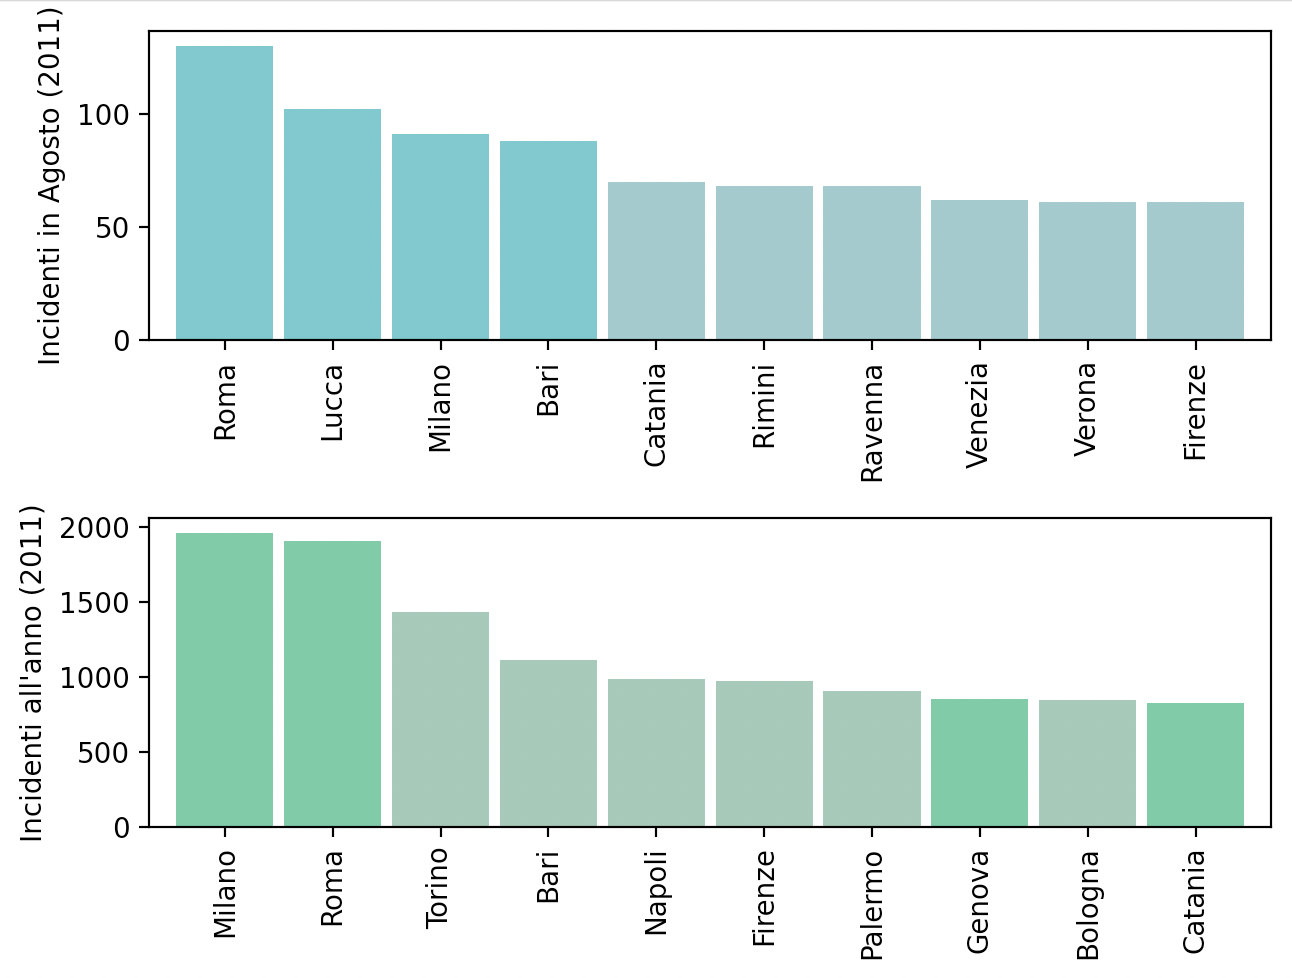
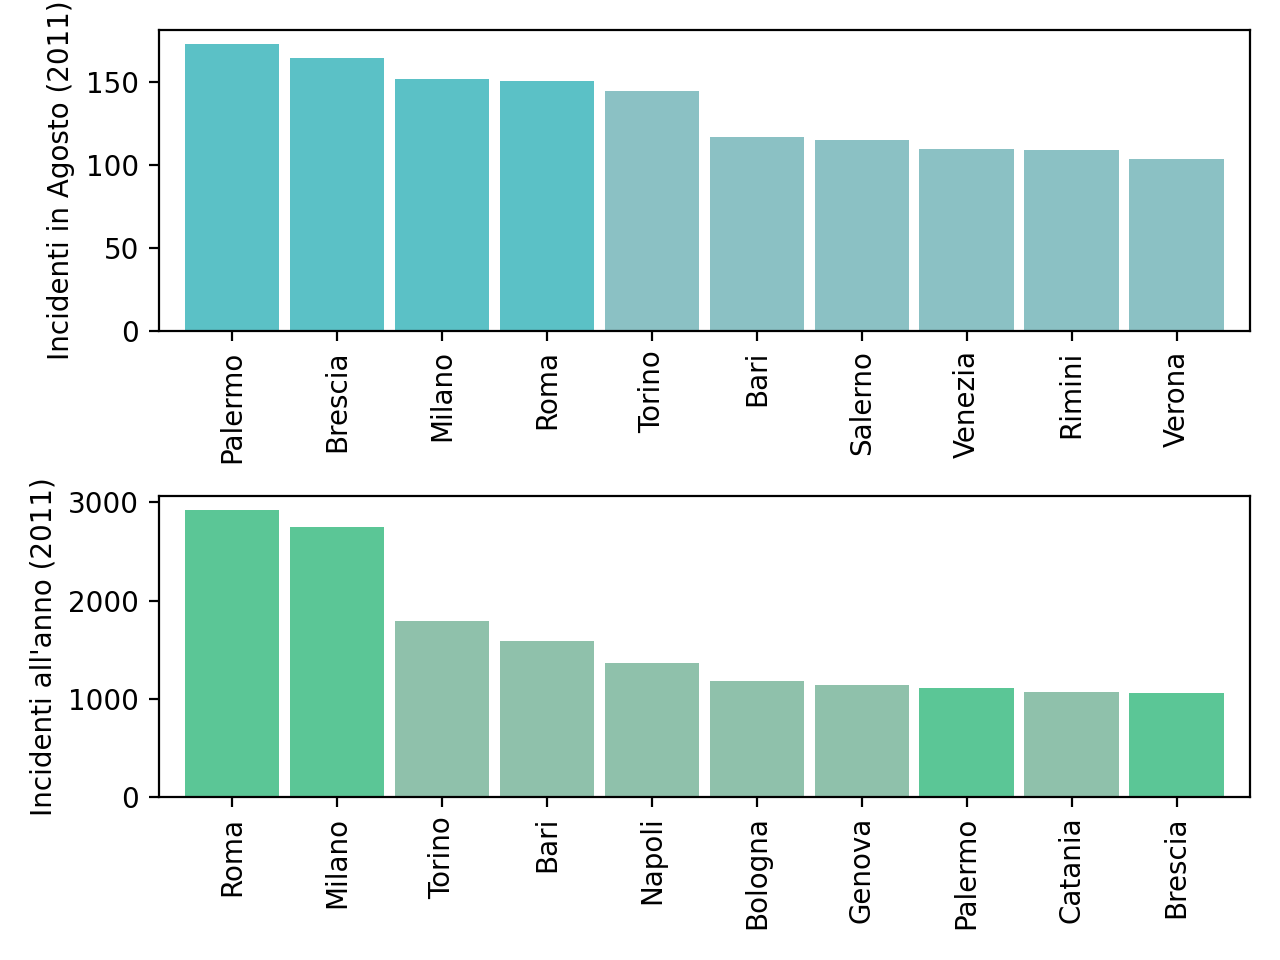
corretto grafi

diff --git a/src/incidenti/incidenti_senza_coords/mese_incidenti/milano_rimini.py b/src/incidenti/incidenti_senza_coords/mese_incidenti/milano_rimini.py
@@ -2,7 +2,7 @@
 import pandas as pd
 import matplotlib.pyplot as plt
 
-path = "dataset/incidenti/incidenti_2011.txt"
+path = "dataset/incidenti/incidenti_2013.txt"
 data = pd.read_csv(path, sep="\t")
 
 milano_mese = data[data['provincia'] == 15]['mese'].value_counts().sort_index()
@@ -24,8 +24,8 @@ pd.DataFrame([milano_mese, rimini_mese], ['Milano', 'Rimini']).transpose().plot.
         'Rimini': '#d15747'
     }
 )
-plt.xlabel("Mese")
-plt.ylabel("Incidenti al giorno (2011)")
+plt.xlabel("")
+plt.ylabel("Incidenti al giorno (2013)")
 plt.xticks(range(0,12), ["Gennaio","Febbraio","Marzo","Aprile","Maggio","Giugno","Luglio","Agosto","Settembre","Ottobre","Novembre","Dicembre"])
 plt.plot([-1, 15], [milano_media, milano_media], color='#c0d147')
 plt.plot([-1, 15], [rimini_media, rimini_media], color='#c0d147')

diff --git a/src/incidenti/incidenti_senza_coords/mese_incidenti/palermo_milano.py b/src/incidenti/incidenti_senza_coords/mese_incidenti/palermo_milano.py
@@ -1,7 +1,7 @@
 import pandas as pd
 import matplotlib.pyplot as plt
 
-path = "dataset/incidenti/incidenti_2012.txt"
+path = "dataset/incidenti/incidenti_2013.txt"
 data = pd.read_csv(path, sep="\t")
 
 milano_mese = data[data['provincia'] == 15]['mese'].value_counts().sort_index()
@@ -24,7 +24,7 @@ pd.DataFrame([milano_mese, palermo_mese], ['Milano', 'Palermo']).transpose().plo
     }
 )
 
-plt.ylabel("Incidenti al giorno (2011)")
+plt.ylabel("Incidenti al giorno (2013)")
 plt.xticks(range(0,12), ["Gennaio","Febbraio","Marzo","Aprile","Maggio","Giugno","Luglio","Agosto","Settembre","Ottobre","Novembre","Dicembre"])
 plt.plot([-1, 15], [milano_media, milano_media], color='#f9f03b')
 plt.plot([-1, 15], [palermo_media, palermo_media], color='#f9f03b')

diff --git a/tesi/Tesi.tex b/tesi/Tesi.tex
@@ -1302,7 +1302,7 @@ di vacanza.
 Nalla figura \ref{fig:mesi-estivi} sono elencate le province con maggiore incidentalità 
 in Agosto rispetto a tutto l'anno. In particolare, ad aumentare in volume sono le 
 province di Brescia e Palermo.
-\todo{rifare grafo e calcolo}
+
 \begin{figure}
     \includegraphics[width=\linewidth]{../src/incidenti/incidenti_senza_coords/mese_incidenti/mesi_estivi.png}
     \caption{Prime 10 province per incidenti in Agosto rispetto a tutto l'anno}

diff --git a/src/incidenti/incidenti_senza_coords/mese_incidenti/mesi_estivi.py b/src/incidenti/incidenti_senza_coords/mese_incidenti/mesi_estivi.py
@@ -7,7 +7,7 @@ sys.path.append('src')
 
 import label_utils
 
-data = pd.read_csv("dataset/incidenti/incidenti_2012.txt", sep="\t")
+data = pd.read_csv("dataset/incidenti/incidenti_2011.txt", sep="\t")
 agosto = data[data['mese'] == 8]['provincia']
 agosto_label = label_utils.join_labels(agosto, 'dataset/incidenti/Classificazioni/provincia.csv').value_counts().head(10)
 #agosto_label = agosto_label / agosto_label.sum()
